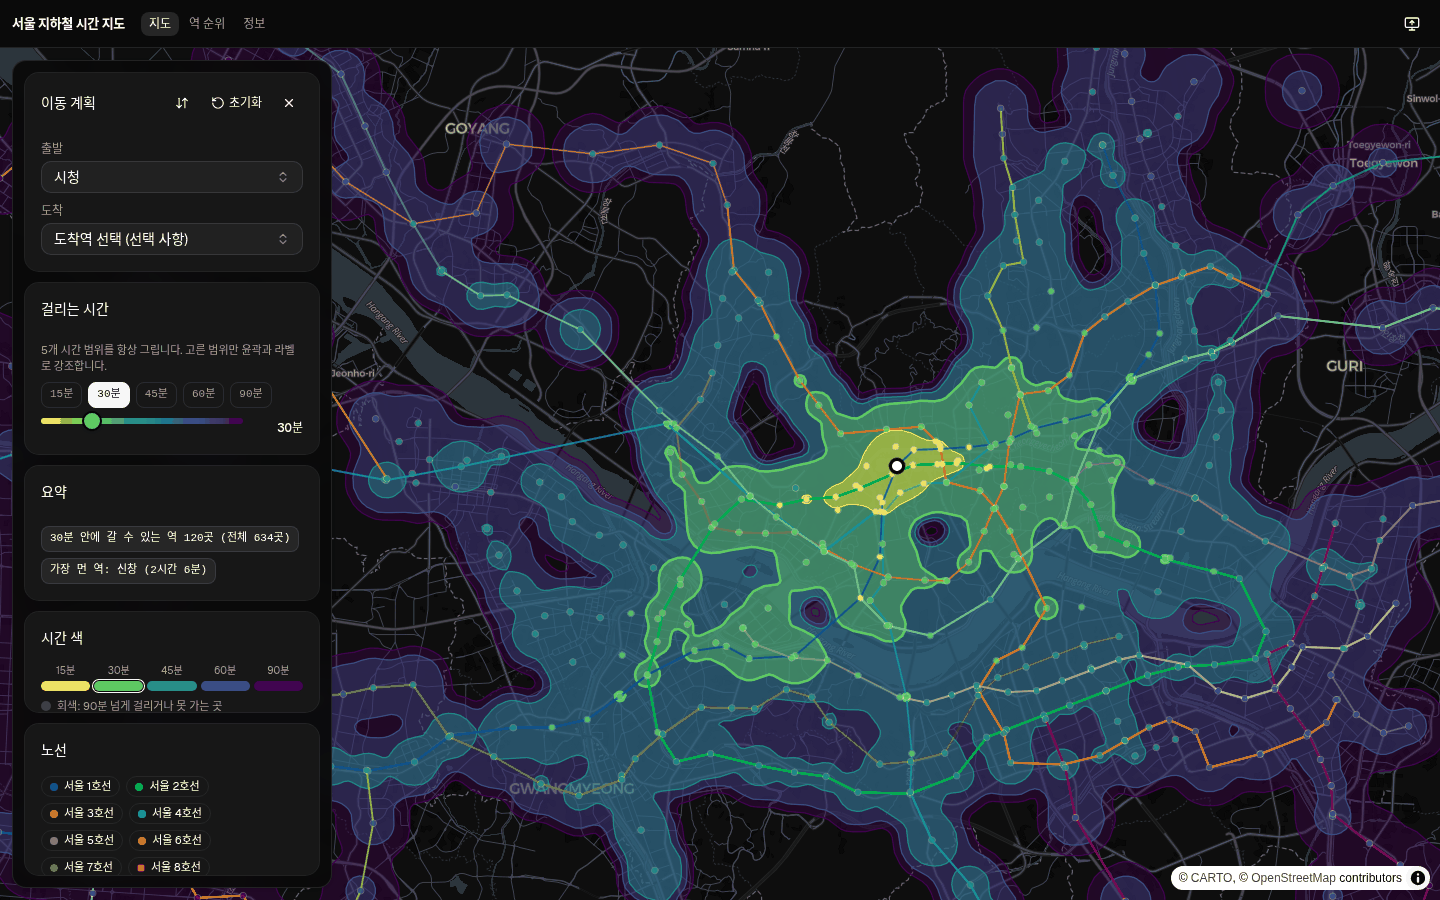
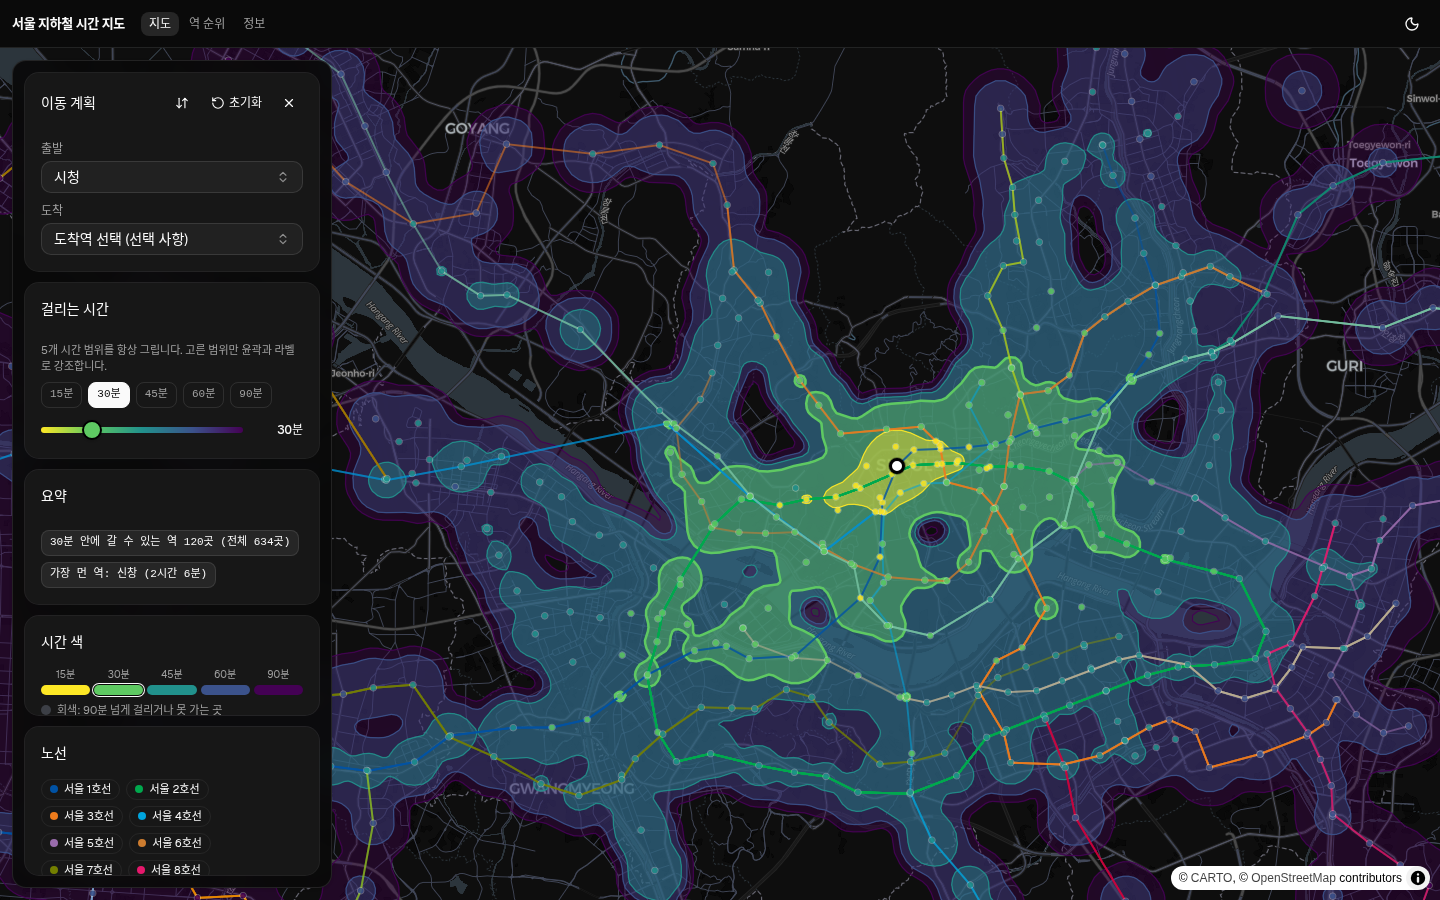
docs: README (테마 버튼·경로 여백·슬라이더) + 스크린샷 갱신 + 비용 표 갱신

diff --git a/README.md b/README.md
@@ -34,7 +34,8 @@ A static isochrone map of the Seoul metro — pick an origin and see how far (an
 - **커서 위치의 걸리는 시간 표시** — 가까운 승강장 위에 마우스를 올리면 커서가 손가락으로 바뀌며 `역 이름 · 시간 (도보 포함)` 툴팁이 뜬다 (판정 반경은 지도를 축소하면 넓어지고 확대하면 좁아진다 — 최소 120 m)
 - **URL 공유** — `?from=시청&to=강남`처럼 주소줄을 복사하면 열자마자 같은 뷰가 보이고, 앱 안에서 출발/도착을 바꾸면 주소줄이 따라 바뀐다
 - **역 순위 탭** — 상단의 "N분 안에 갈 수 있는 역 N곳"은 지도와 같은 실시간 계산(출발지를 바꾸면 함께 바뀐다), 그 아래 배차간격·정차 횟수·가장 긴 완주·가장 먼 역 표는 Python에서 미리 계산 — 승강장 사이만 세는 별개의 계산이라 문 앞까지 도보를 포함하지 않는다
-- **라이트 / 다크 / 시스템** 테마 — 시스템 설정을 따라가고 선택을 localStorage에 저장, 두 테마에서 등시선 램프를 따로 맞췄다 (라이트 ColorBrewer YlOrRd · 다크 Viridis)
+- **라이트 / 다크** 테마 — 처음엔 시스템 설정을 따르고, 헤더 오른쪽 해/달 버튼으로 바꾸면 localStorage에 저장한다. 두 테마에서 등시선 램프를 따로 맞췄다 (라이트 ColorBrewer YlOrRd · 다크 Viridis)
+- 경로를 고르면 출발·도착이 화면 가장자리에 붙지 않도록 패널을 뺀 남은 영역의 18%를 여백으로 두고 맞춘다 (최대 줌 14). 시간 슬라이더는 마우스·터치로 끌 수 있고, 끄는 동안 지도나 시트는 따라 움직이지 않는다.
 - **접이식 패널** — 지도는 항상 전체 폭이고 패널은 위에 뜬다 (데스크톱 왼쪽 · 모바일 아래). 지도를 움직이면 패널이 자동으로 접혀 지도가 전체를 차지하고, 열기 버튼으로 다시 편다
 - 서버·데이터베이스·API 키 없음 — 정적 파일과 JSON 두 개만 서빙한다
 
@@ -153,22 +154,24 @@ Grok Bot (Sparky) advised pi, verified the UI with Playwright screenshots, and h
 | --- | --- |
 | 모델 | Qwen3.8-Flash-Next (TensorFold on DGX Spark), thinking = medium |
 | 에이전트 | pi coding agent (herdr session `seoul-tram`) |
-| 측정 구간 (KST) | 2026-10-06 20:49 – 2026-10-07 08:17 |
-| 요청 수 | 668 |
-| 생성 토큰 (completion) | 1,119,682 |
-| 프롬프트 토큰 | 80,967,957 (대부분 prefix-cache hit) |
-| decode tok/s (요청당) | median 57.2 / mean 58.8 / p90 72.3 / max 95.6 / min 40.5 |
+| 측정 구간 (KST) | 2026-10-06 20:49 – 2026-10-07 09:04 |
+| 요청 수 | 697 |
+| 생성 토큰 (completion) | 1,145,448 |
+| 프롬프트 토큰 | 87,634,993 (대부분 prefix-cache hit) |
+| decode tok/s (요청당) | median 57.2 / mean 58.8 / p90 72.3 / max 95.6 / min 40.5 (08:17까지 집계) |
 | token-weighted decode | 55.0 tok/s |
 | MTP acceptance | 72.8% |
 
 Round 2만 (등시선·패널·문구·슬라이더, 2026-10-07 07:01–08:17): 요청 186, 생성 169,439 토큰, median 59.2 tok/s, MTP 75.2%.
+
+Round 2 수정 배치 (슬라이더 드래그·테마 버튼·경로 여백·모바일 padding, 2026-10-07 08:37–09:04): 요청 29, 생성 25,766 토큰, 프롬프트 6,667,036 토큰, token-weighted decode 58.3 tok/s, MTP 79.3%.
 
 ### 감독 · Supervisor (Grok Bot / 스파키)
 Grok Bot 쪽 **정확한 토큰 수는 미수집**입니다. 코딩 토큰은 위 표가 전부입니다.
 | 항목 | 값 |
 | --- | --- |
 | 역할 | 지시 메모 · Playwright 시각 검증 · 스크린샷 · GitHub Pages 배포 |
-| 감독 라운드 | 약 10회 중간/최종 보고 |
+| 감독 라운드 | 약 11회 중간/최종 보고 |
 | 프로젝트 wall-clock (KST) | 2026-10-06 저녁 – 2026-10-07 오전 (약 12시간, 중단·재개 포함) |
 
 ### 프로젝트 규모 · Project stats
